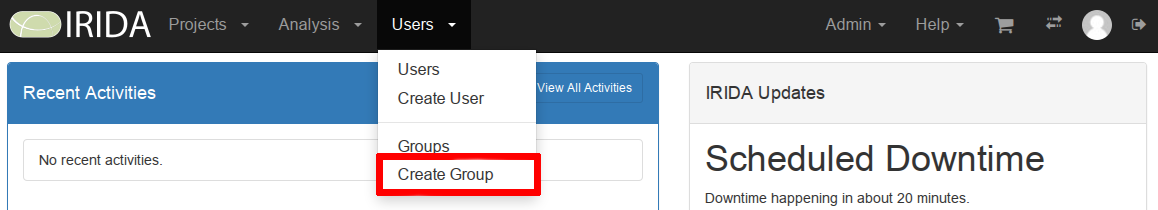
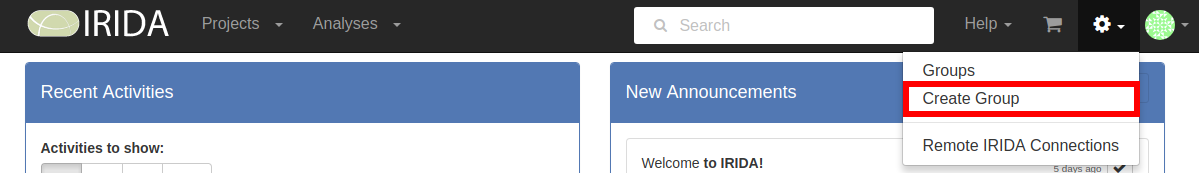
updated groups pages with new dashboard

diff --git a/doc/user/user/user-groups/index.md b/doc/user/user/user-groups/index.md
@@ -16,7 +16,7 @@ User accounts can be organized into a collection called a user group. User group
 Viewing existing user groups
 ----------------------------
 
-You can access the list of user groups that have already been created by clicking on the "Users" menu at the top of the dashboard and selecting "Groups":
+You can access the list of user groups that have already been created by clicking on the "Settings" menu at the top of the dashboard and selecting "Groups":
 
 ![Groups dashboard location.](images/groups-menu.png)
 

diff --git a/doc/_includes/tutorials/common/creating-a-user-group.md b/doc/_includes/tutorials/common/creating-a-user-group.md
@@ -1,6 +1,6 @@
 All users are permitted to create user groups in IRIDA.
 
-After logging in, click on the **Users** menu and select "Create Group":
+After logging in, click on the **Settings** <i class="fa fa-cog"></i>  menu and select "Create Group":
 
 ![Create user group menu.]({{ site.baseurl }}/images/tutorials/common/users/create-user-group-menu.png)
 
